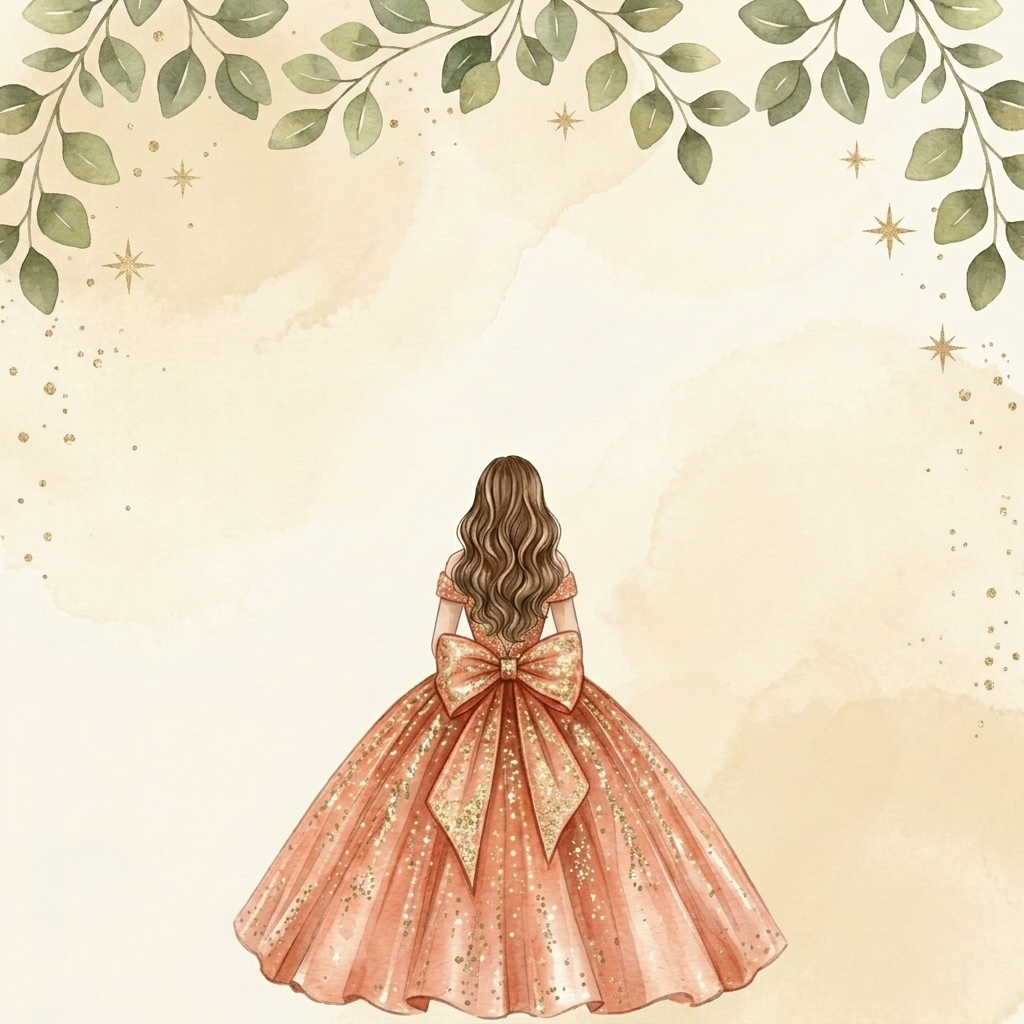
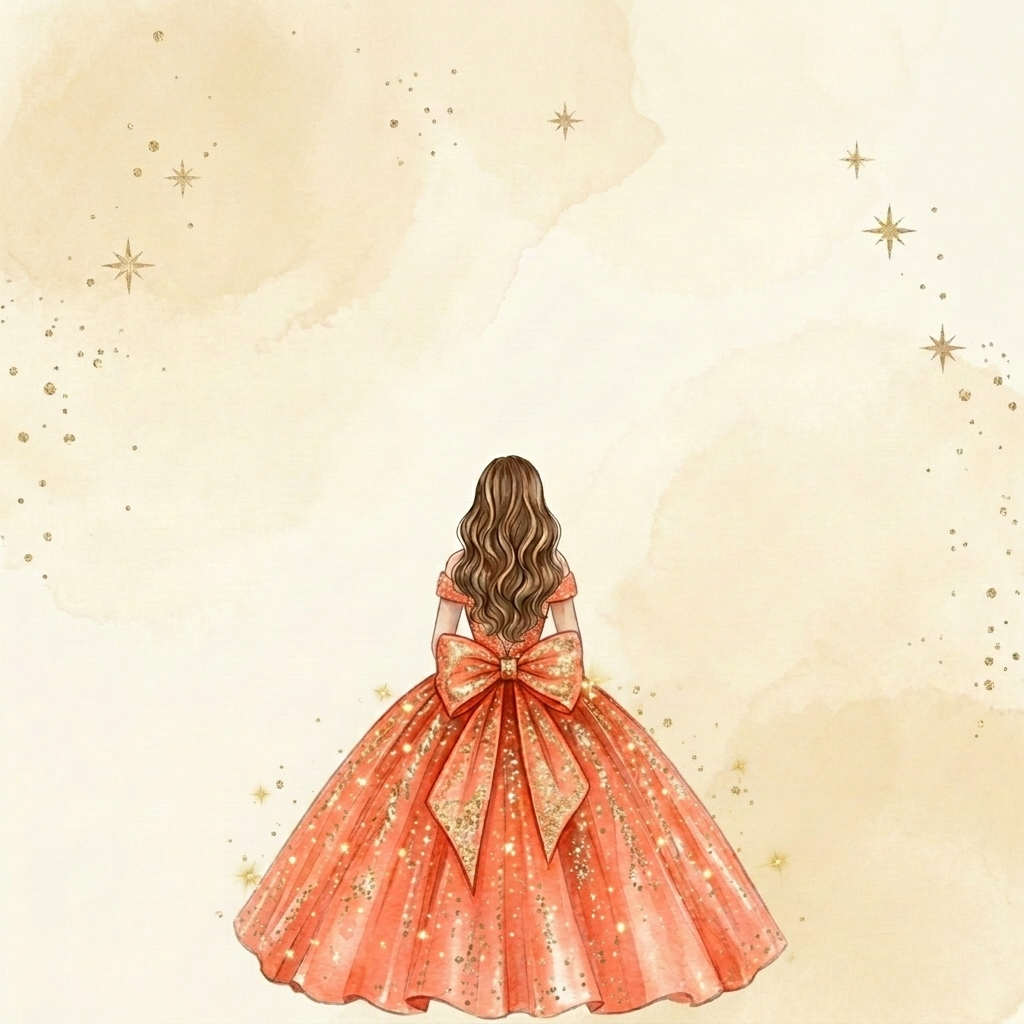
deploy: update invitations

diff --git a/src/invitations/maria-loyola/HeroOverride.jsx b/src/invitations/maria-loyola/HeroOverride.jsx
@@ -68,20 +68,6 @@ const HeroOverride = ({ data, basePath }) => {
                 <div className="absolute inset-0 bg-gradient-to-t from-[#46231C]/90 via-[#64372D]/35 to-[#FAEFCA]/15" />
             </div>
 
-            <div className="absolute inset-0 z-[1] overflow-hidden pointer-events-none">
-                <FloatingLily
-                    basePath={basePath}
-                    variant="cream"
-                    className="absolute -left-14 top-[9%] w-44 sm:w-56 md:w-72 opacity-80 -rotate-12"
-                />
-                <FloatingLily
-                    basePath={basePath}
-                    variant="coral"
-                    delay="-1.4s"
-                    className="absolute -right-10 bottom-[18%] w-36 sm:w-48 md:w-60 opacity-75 rotate-12"
-                />
-            </div>
-
             {/* Main Content */}
             <div className="relative z-10 text-white animate-fade-in space-y-4 px-6 pb-24 md:pb-16 text-center">
 

diff --git a/og-data.js b/og-data.js
@@ -56,4 +56,9 @@ export const ogData = {
         description: 'Estás invitado(a) a la celebración de mis XV años. ¡Toca aquí para ver la invitación!',
         image: '/invitations/victoria-rojas/img/og-preview.jpg',
     },
+    'maria-loyola': {
+        title: 'XV Años | María José Loyola Lopéz ✨',
+        description: 'Estás invitado(a) a la celebración de mis XV años. ¡Toca aquí para ver la invitación!',
+        image: '/invitations/maria-loyola/img/og-preview.jpg',
+    },
 }
